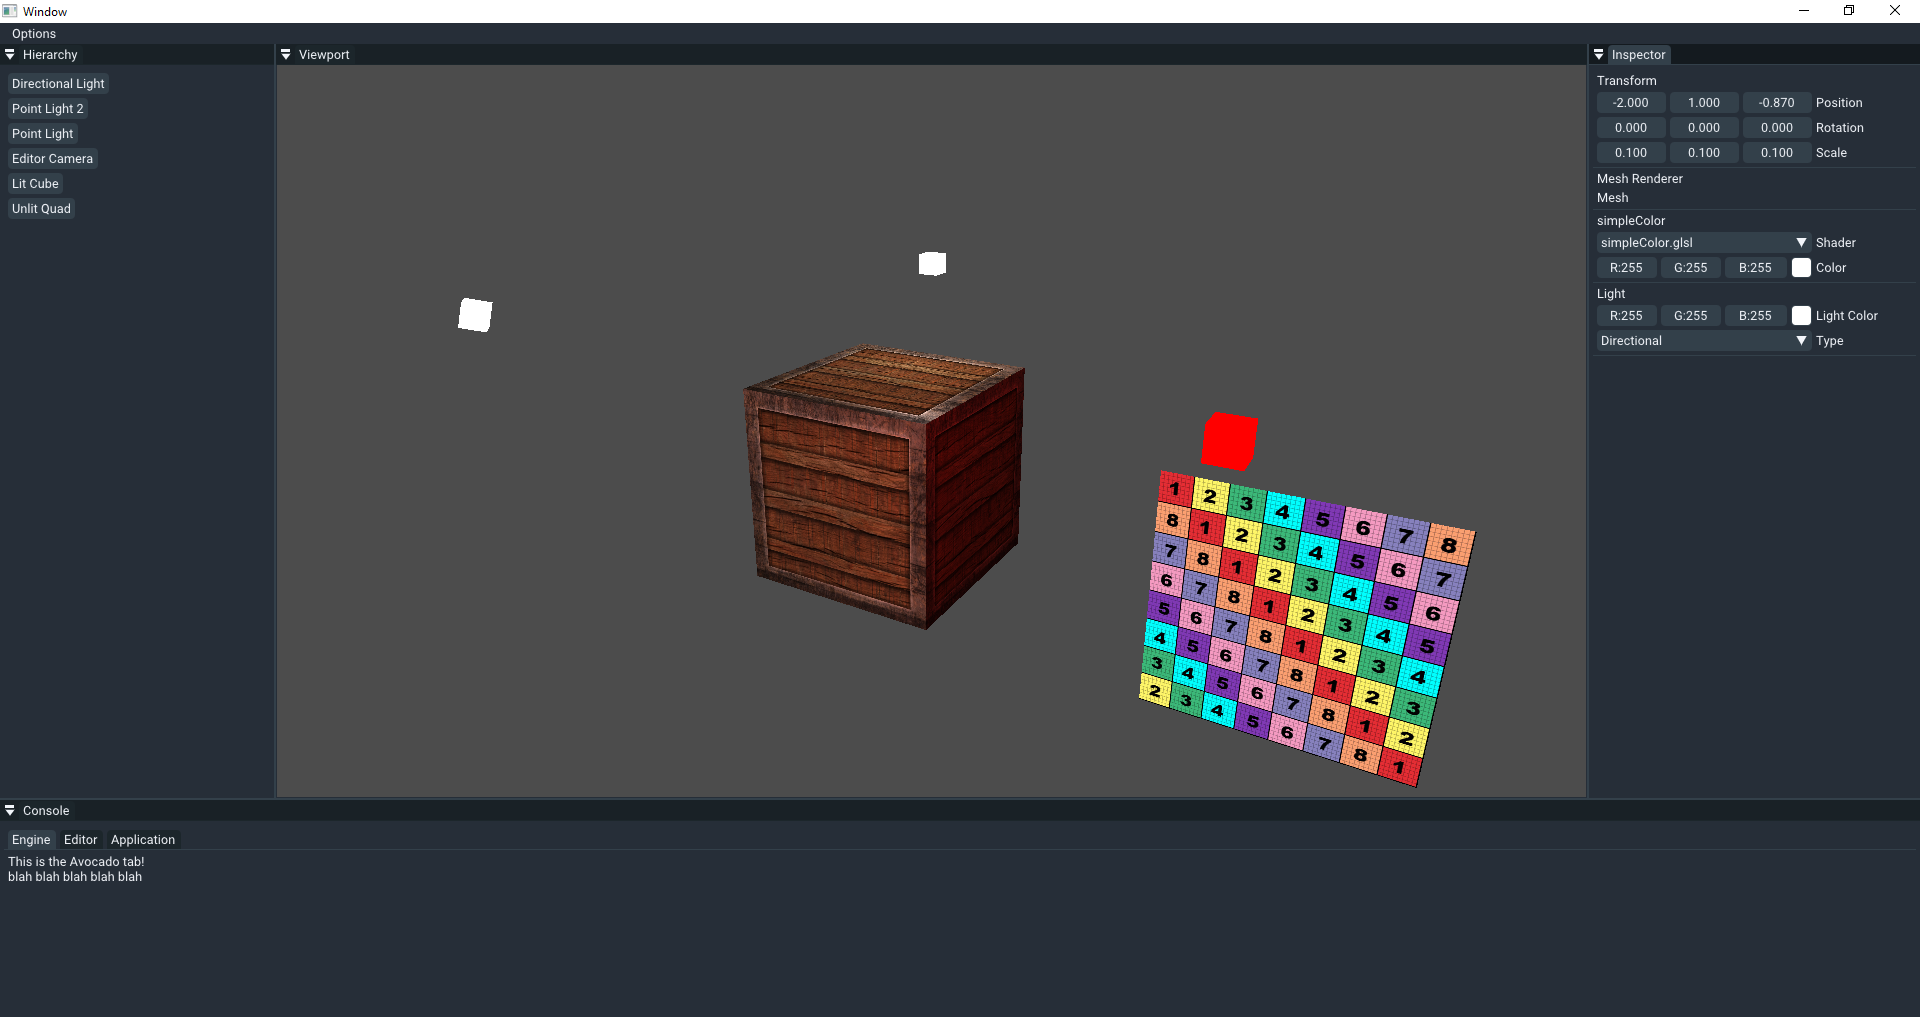
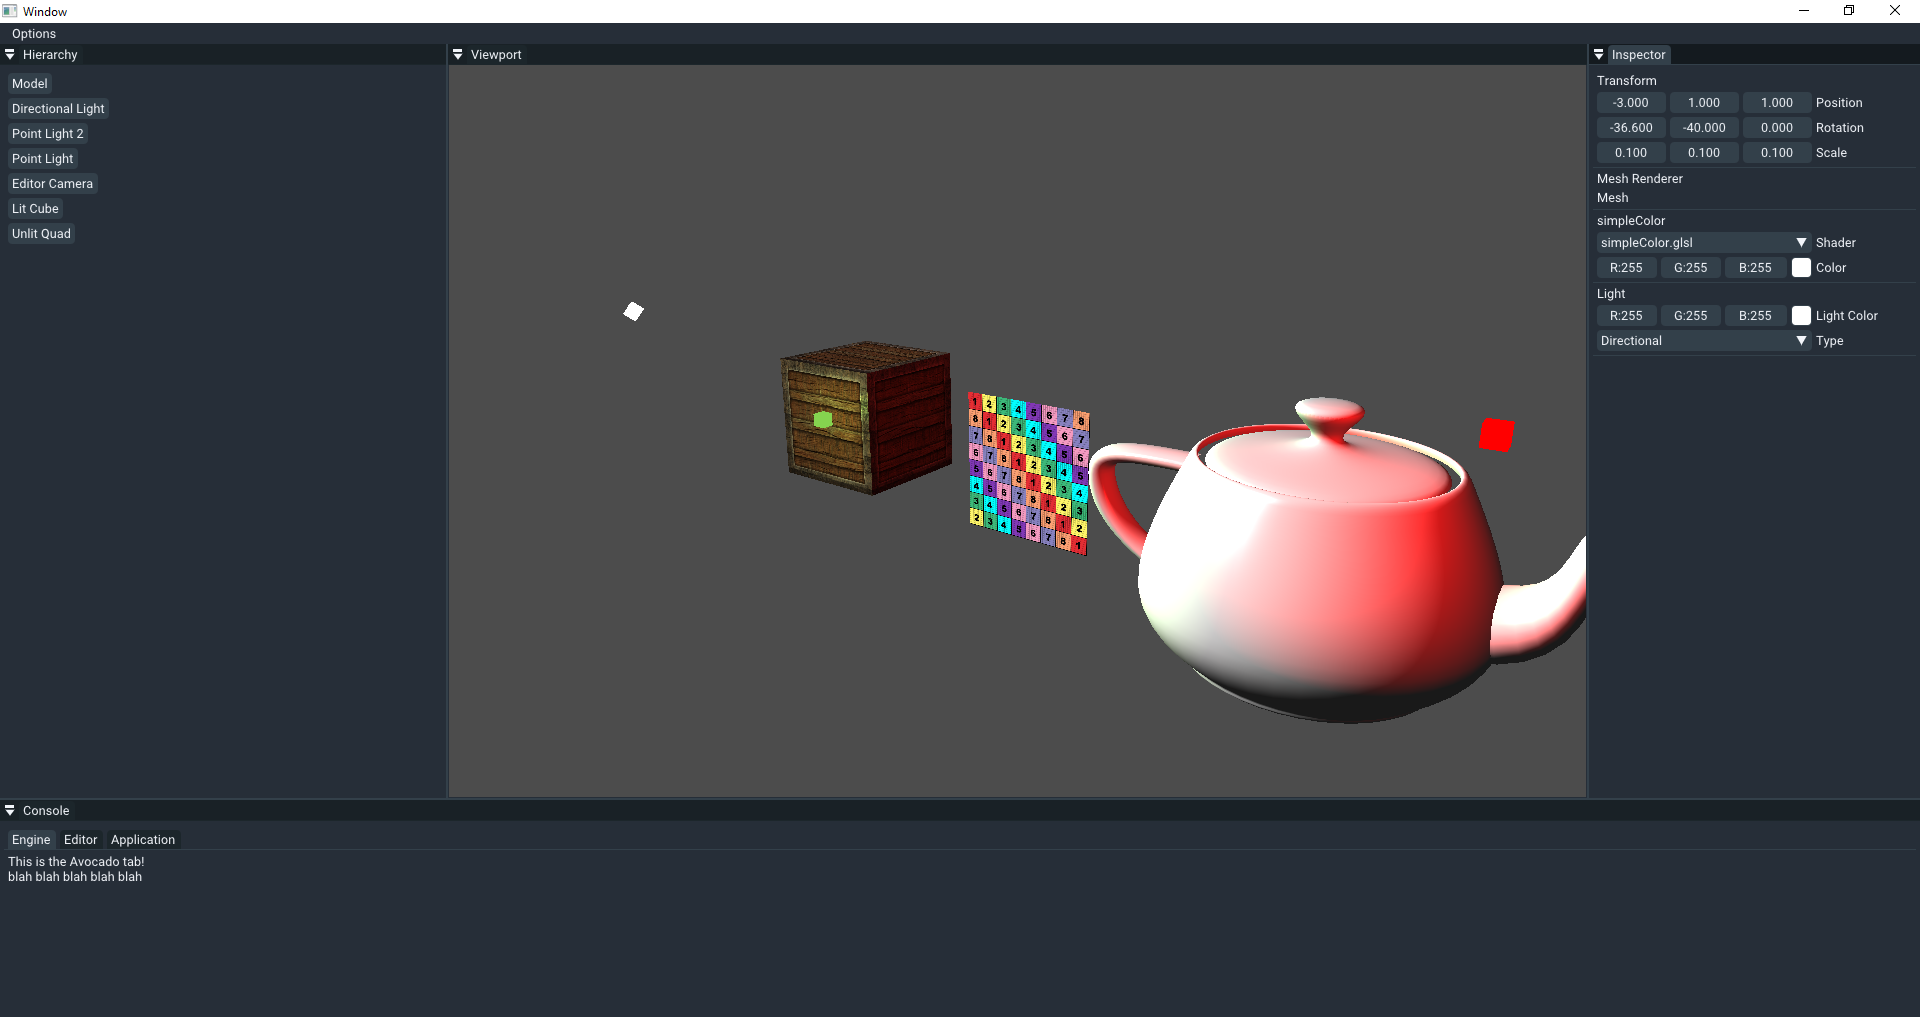
Fixed model normals

diff --git a/DuskEditor/src/EditorLayer.cpp b/DuskEditor/src/EditorLayer.cpp
@@ -90,7 +90,8 @@ namespace DuskEngine
 		model = new Model("res/models/teapot.fbx");
 
 		auto modelTeste = m_Scene->CreateEntity("Model");
-		auto& modelMesh = modelTeste.AddComponent<MeshRenderer>(model->m_Meshes[0], lightMaterial);
+		modelTeste.GetComponent<Transform>().position = { 2.0f, -.75f, 0.0f };
+		modelTeste.AddComponent<MeshRenderer>(model->m_Meshes[0], MakeRef<Material>(Shader::Create("res/shaders/phong.glsl"), "Phong Material"));
 	}
 
 	void EditorLayer::OnUpdate()

diff --git a/DuskEngine/src/Core/Renderer/Resources/Model.cpp b/DuskEngine/src/Core/Renderer/Resources/Model.cpp
@@ -10,7 +10,7 @@ namespace DuskEngine
 	Model::Model(const std::string& path)
 	{
 		Assimp::Importer import;
-		const aiScene* scene = import.ReadFile(path, aiProcess_Triangulate | aiProcess_FlipUVs);
+		const aiScene* scene = import.ReadFile(path, aiProcess_Triangulate | aiProcess_FlipUVs | aiProcess_FlipWindingOrder);
 		if (!scene || scene->mFlags & AI_SCENE_FLAGS_INCOMPLETE || !scene->mRootNode)
 		{
 			std::cout << "ERROR::ASSIMP::" << import.GetErrorString() << std::endl;
